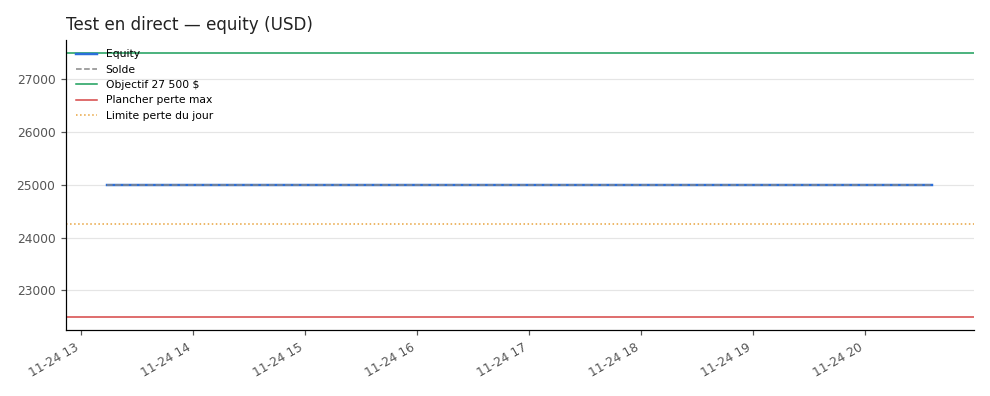
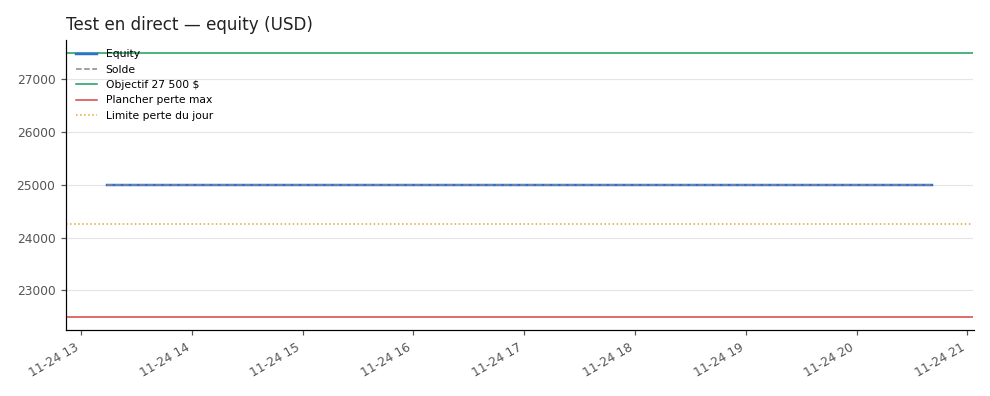
sim: 2026-11-24 20:41 UTC

diff --git a/RAPPORT.md b/RAPPORT.md
@@ -1,6 +1,6 @@
 # RAPPORT — Simulation FTMO Challenge 1-Step 25 000 $ (paper trading)
 
-> **EN COURS** — solde 25 000.00 $ — perte du jour 0.00 $ / 750 $ — distance au plancher 2 500.00 $ — mis à jour 2026-11-24T20:36 UTC
+> **EN COURS** — solde 25 000.00 $ — perte du jour 0.00 $ / 750 $ — distance au plancher 2 500.00 $ — mis à jour 2026-11-24T20:41 UTC
 
 ⚠ Simulation uniquement : aucun argent réel, aucun compte de courtage ni FTMO connecté.
 
@@ -32,7 +32,7 @@ Le test en direct d'une semaine (5 jours de marché, section 2) ne changera pas 
 ## 2. Test en direct
 
 - Stratégie active : `aggressive_v1` — premier lancement : 2026-11-24T13:14:13.465556+00:00 UTC — fin du test : **2026-12-01** (heure de Prague)
-- Dernière exécution : 2026-11-24T20:36:01.363395+00:00 UTC
+- Dernière exécution : 2026-11-24T20:41:01.443704+00:00 UTC
 - Solde : **25 000.00 $** — equity : 25 000.00 $ — plancher perte max : 22 500.00 $ — plus haut solde de fin de journée : 25 000.00 $
 
 ![Courbe d'equity live](docs/equity_live.png)
